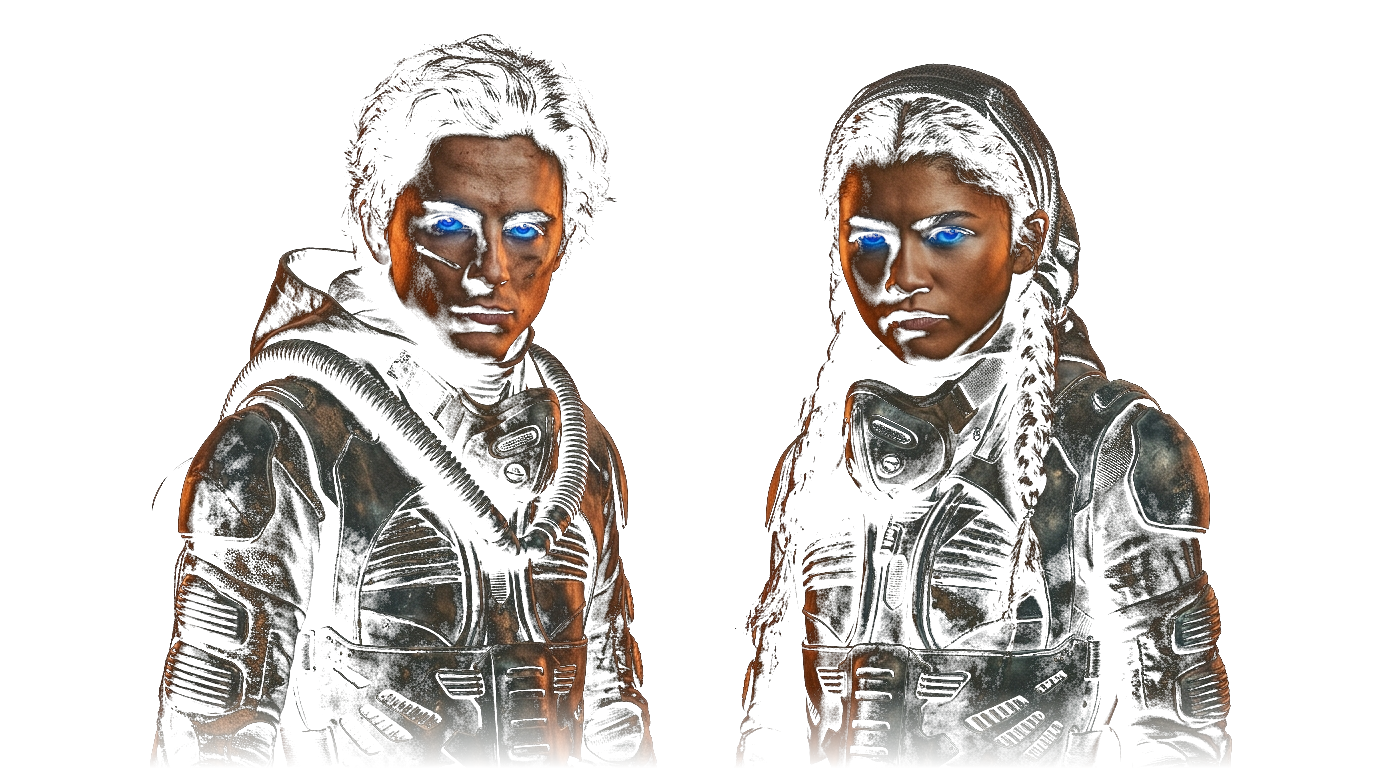
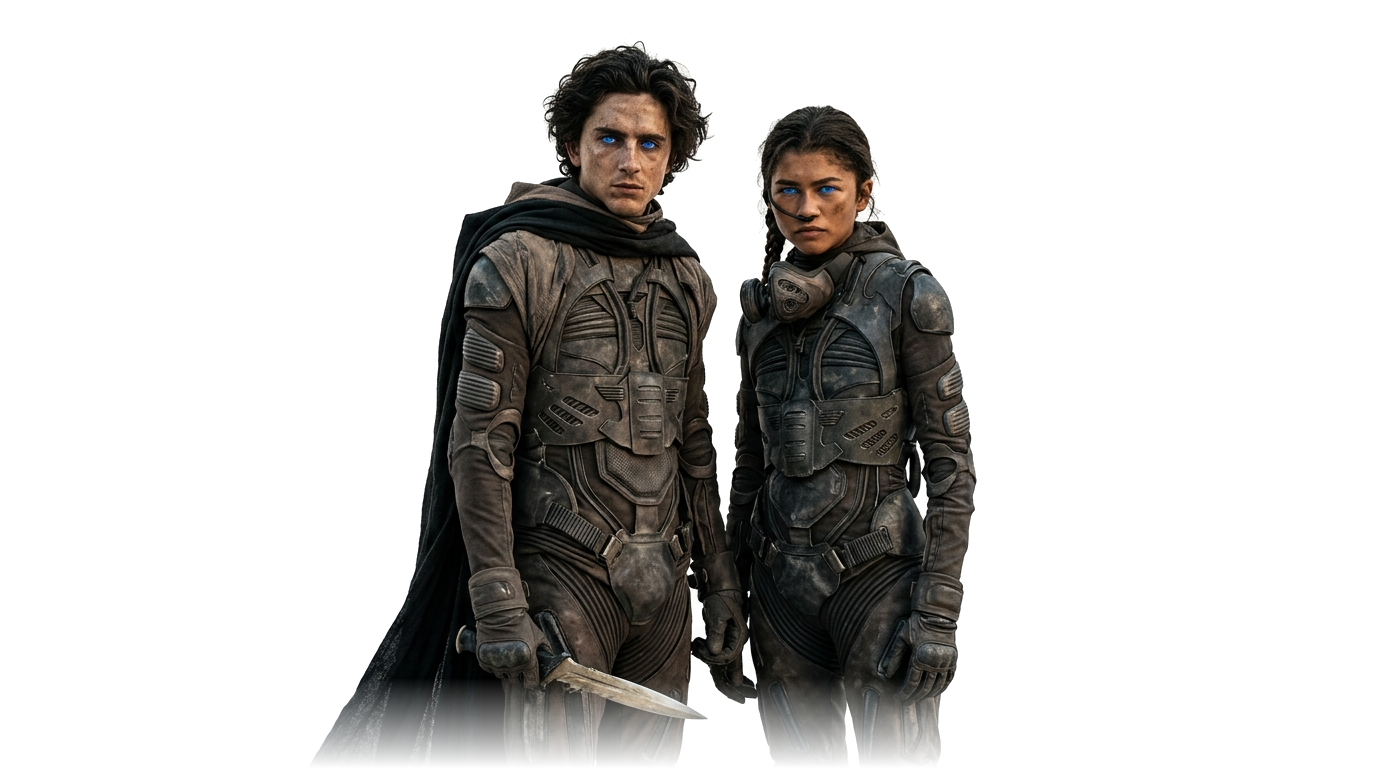
fix: make thematic cards compact to reveal cutouts and convert all cutouts to true transparent PNGs

diff --git a/src/components/home/ThematicShowcase.tsx b/src/components/home/ThematicShowcase.tsx
@@ -1285,7 +1285,7 @@ export const ThematicShowcase: React.FC<ThematicShowcaseProps> = ({
                   return next;
                 });
               }}
-              className={`relative w-full bg-gradient-to-r ${banner.bgGradient} pt-8 pb-7 sm:pt-11 sm:pb-9 lg:pt-14 lg:pb-10 overflow-hidden transition-colors duration-500`}
+              className={`relative w-full bg-gradient-to-r ${banner.bgGradient} pt-8 pb-6 sm:pt-12 sm:pb-8 lg:pt-16 lg:pb-10 overflow-hidden transition-colors duration-500`}
             >
               {/* Vertical Gradient Vignette: smoothly dissolves top and bottom into the website's dark canvas */}
               <div className="absolute inset-0 bg-gradient-to-b from-[#141414] via-transparent to-[#141414] pointer-events-none z-[4]" />
@@ -1308,8 +1308,8 @@ export const ThematicShowcase: React.FC<ThematicShowcaseProps> = ({
                 }}
               />
 
-              {/* High-Impact Character Cutout PNG (Feathered top & bottom mask, perfectly framed above cards) */}
-              <div className="absolute right-1 xs:right-2 sm:right-6 md:right-10 lg:right-16 xl:right-24 2xl:right-28 top-3 sm:top-5 md:top-6 lg:top-7 h-[270px] sm:h-[370px] md:h-[430px] lg:h-[490px] xl:h-[550px] 2xl:h-[600px] pointer-events-none select-none z-[12] flex items-start [mask-image:linear-gradient(to_bottom,transparent_0%,black_8%,black_75%,transparent_100%)]">
+              {/* High-Impact Character Cutout PNG (Feathered top & bottom mask, prominently revealed above compact cards) */}
+              <div className="absolute right-1 xs:right-2 sm:right-6 md:right-10 lg:right-16 xl:right-24 2xl:right-28 top-2 sm:top-3 md:top-4 lg:top-5 h-[300px] sm:h-[400px] md:h-[470px] lg:h-[540px] xl:h-[610px] 2xl:h-[660px] pointer-events-none select-none z-[12] flex items-start [mask-image:linear-gradient(to_bottom,transparent_0%,black_6%,black_75%,transparent_100%)]">
                 <img
                   src={banner.cutoutArt}
                   alt={banner.cutoutAlt}
@@ -1321,9 +1321,9 @@ export const ThematicShowcase: React.FC<ThematicShowcaseProps> = ({
                 />
               </div>
 
-              <div className="relative max-w-[1720px] 2xl:max-w-[1880px] 3xl:max-w-[2200px] 4xl:max-w-[2600px] mx-auto px-3.5 sm:px-6 lg:px-12 3xl:px-16 space-y-3.5 sm:space-y-5 z-20">
+              <div className="relative max-w-[1720px] 2xl:max-w-[1880px] 3xl:max-w-[2200px] 4xl:max-w-[2600px] mx-auto px-3.5 sm:px-6 lg:px-12 3xl:px-16 space-y-3 sm:space-y-4 z-20">
                 {/* Banner Header: Badge, Show Title Logo, & Tagline / Synopsis */}
-                <div className="space-y-1.5 sm:space-y-2 max-w-[75%] sm:max-w-xl min-h-[104px] sm:min-h-[124px] lg:min-h-[144px] flex flex-col justify-end">
+                <div className="space-y-1.5 sm:space-y-2 max-w-[75%] sm:max-w-xl min-h-[105px] sm:min-h-[130px] lg:min-h-[155px] flex flex-col justify-end">
                   {/* Category Pill / Badge with dynamic genre hint when hovered */}
                   <div className="inline-flex items-center gap-1.5 px-2.5 py-0.5 rounded-full bg-white/10 backdrop-blur-md border border-white/10 text-[10px] sm:text-xs font-semibold uppercase tracking-wider text-amber-300 w-fit transition-all duration-300">
                     <Sparkles className="w-3 h-3 text-amber-400" />
@@ -1368,12 +1368,11 @@ export const ThematicShowcase: React.FC<ThematicShowcaseProps> = ({
                   </p>
                 </div>
 
-                {/* 6 Poster Cards: Mobile Swipe Carousel, Tablet 3-Col, Desktop 6-Col Grid */}
-                <div className="flex overflow-x-auto snap-x snap-mandatory no-scrollbar gap-2.5 -mx-3.5 px-3.5 pb-2 sm:grid sm:grid-cols-3 md:grid-cols-3 lg:grid-cols-6 sm:gap-3 lg:gap-3.5 sm:mx-0 sm:px-0 sm:pb-0 relative z-20">
+                {/* 6 Poster Cards: Compact sizing so character cutout behind is prominently visible */}
+                <div className="flex overflow-x-auto snap-x snap-mandatory no-scrollbar gap-2 -mx-3.5 px-3.5 pb-2 sm:grid sm:grid-cols-3 md:grid-cols-6 sm:gap-2.5 lg:gap-3 sm:mx-0 sm:px-0 sm:pb-0 max-w-5xl lg:max-w-6xl xl:max-w-[1360px] 2xl:max-w-[1440px] relative z-20">
                   {banner.items.map((item, idx) => {
                     const isLoading = loadingMediaId === item.id;
                     const displayGenre = language === 'en' ? item.genreEn : item.genreId;
-                    const displaySynopsis = language === 'en' ? item.synopsisEn : item.synopsisId;
                     const isCardActive = hoveredIdx === idx;
 
                     return (
@@ -1387,7 +1386,7 @@ export const ThematicShowcase: React.FC<ThematicShowcaseProps> = ({
                           playHover();
                           setHoveredBannerItem((prev) => ({ ...prev, [banner.id]: idx }));
                         }}
-                        className={`group relative w-[140px] xs:w-[155px] shrink-0 snap-start sm:w-auto sm:shrink aspect-[2/3] rounded-xl sm:rounded-xl overflow-hidden bg-cinema-950 border ${
+                        className={`group relative w-[115px] xs:w-[126px] sm:w-auto shrink-0 snap-start sm:shrink aspect-[2/3] max-w-[165px] xl:max-w-[180px] rounded-lg sm:rounded-xl overflow-hidden bg-cinema-950 border ${
                           isCardActive
                             ? 'border-amber-400/80 ring-2 ring-amber-400/40 -translate-y-1.5 shadow-2xl shadow-amber-500/15'
                             : 'border-white/[0.1] hover:border-white/40'
@@ -1409,24 +1408,21 @@ export const ThematicShowcase: React.FC<ThematicShowcaseProps> = ({
                         <div className="absolute inset-0 bg-gradient-to-t from-black/95 via-black/30 to-transparent opacity-85 group-hover:opacity-75 transition-opacity" />
 
                         {/* Top Rating Badge */}
-                        <div className="absolute top-2 right-2 z-10 flex items-center gap-1 px-1.5 py-0.5 rounded-full bg-black/75 backdrop-blur-md border border-white/10 text-[9px] sm:text-[10px] font-bold text-amber-400">
+                        <div className="absolute top-1.5 right-1.5 z-10 flex items-center gap-1 px-1.5 py-0.5 rounded-full bg-black/75 backdrop-blur-md border border-white/10 text-[8.5px] sm:text-[9.5px] font-bold text-amber-400">
                           <Star className="w-2.5 h-2.5 fill-amber-400 text-amber-400" />
                           <span>{item.rating.toFixed(1)}</span>
                         </div>
 
-                        {/* Bottom Information with Title, Metadata, and Bilingual Synopsis */}
-                        <div className="absolute bottom-0 inset-x-0 p-2.5 sm:p-3 z-10 space-y-0.5 sm:space-y-1 bg-gradient-to-t from-black/95 via-black/85 to-transparent pt-8 sm:pt-10 pr-7 sm:pr-2.5">
-                          <h4 className="text-xs sm:text-sm font-bold text-white line-clamp-1 group-hover:text-amber-300 transition-colors drop-shadow">
+                        {/* Bottom Information with Title & Metadata */}
+                        <div className="absolute bottom-0 inset-x-0 p-2 sm:p-2.5 z-10 space-y-0.5 bg-gradient-to-t from-black/95 via-black/80 to-transparent pt-6 sm:pt-8 pr-6 sm:pr-2">
+                          <h4 className="text-[11px] sm:text-xs font-bold text-white line-clamp-1 group-hover:text-amber-300 transition-colors drop-shadow leading-tight">
                             {item.title}
                           </h4>
-                          <div className="flex items-center gap-1.5 text-[9px] sm:text-[10px] text-amber-300/90 font-medium">
+                          <div className="flex items-center gap-1 text-[8.5px] sm:text-[9.5px] text-amber-300/90 font-medium">
                             <span>{item.year}</span>
                             <span>•</span>
                             <span className="line-clamp-1 text-slate-300 font-normal">{displayGenre}</span>
                           </div>
-                          <p className="text-[10px] sm:text-[11px] text-slate-300/90 font-light line-clamp-2 leading-relaxed drop-shadow-sm">
-                            {displaySynopsis}
-                          </p>
                         </div>
 
                         {/* Mobile / Tablet Quick-Play Button */}
